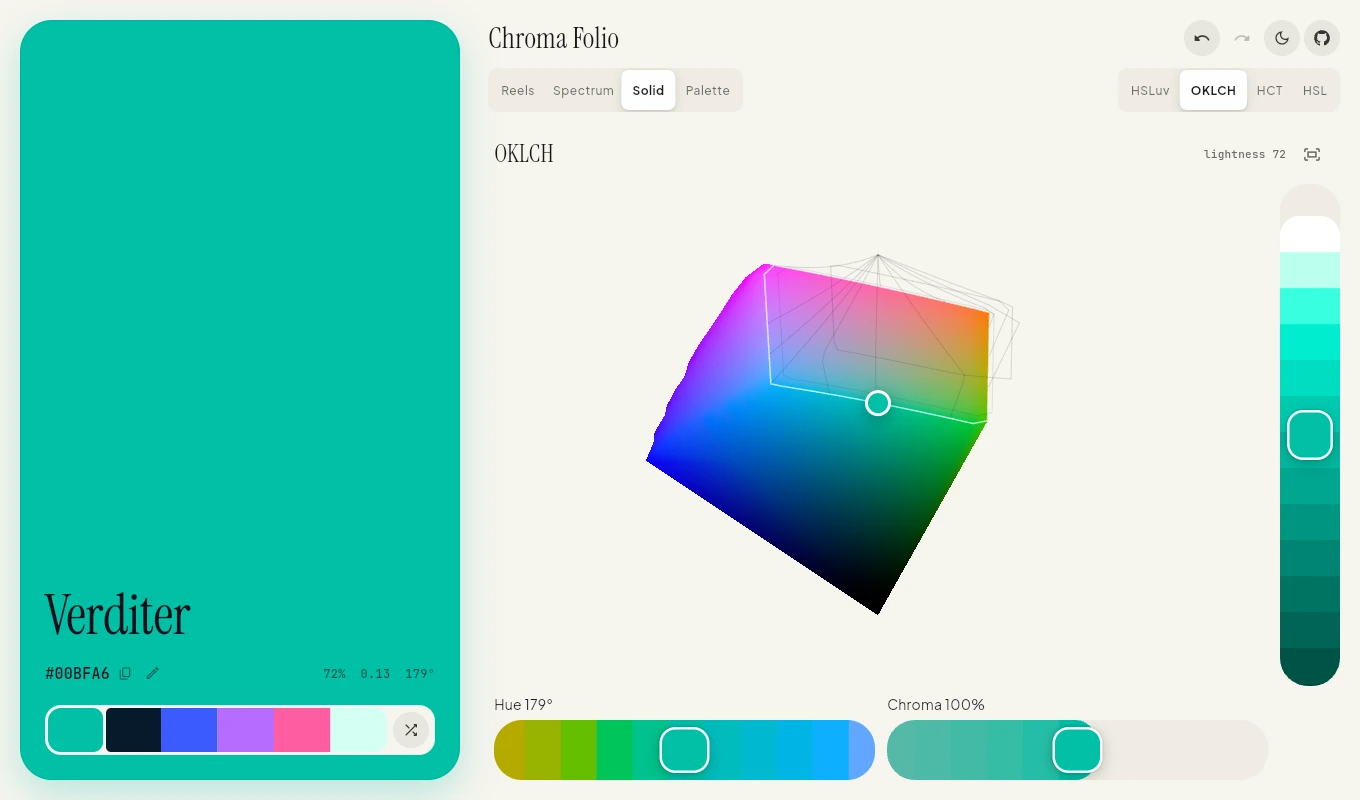
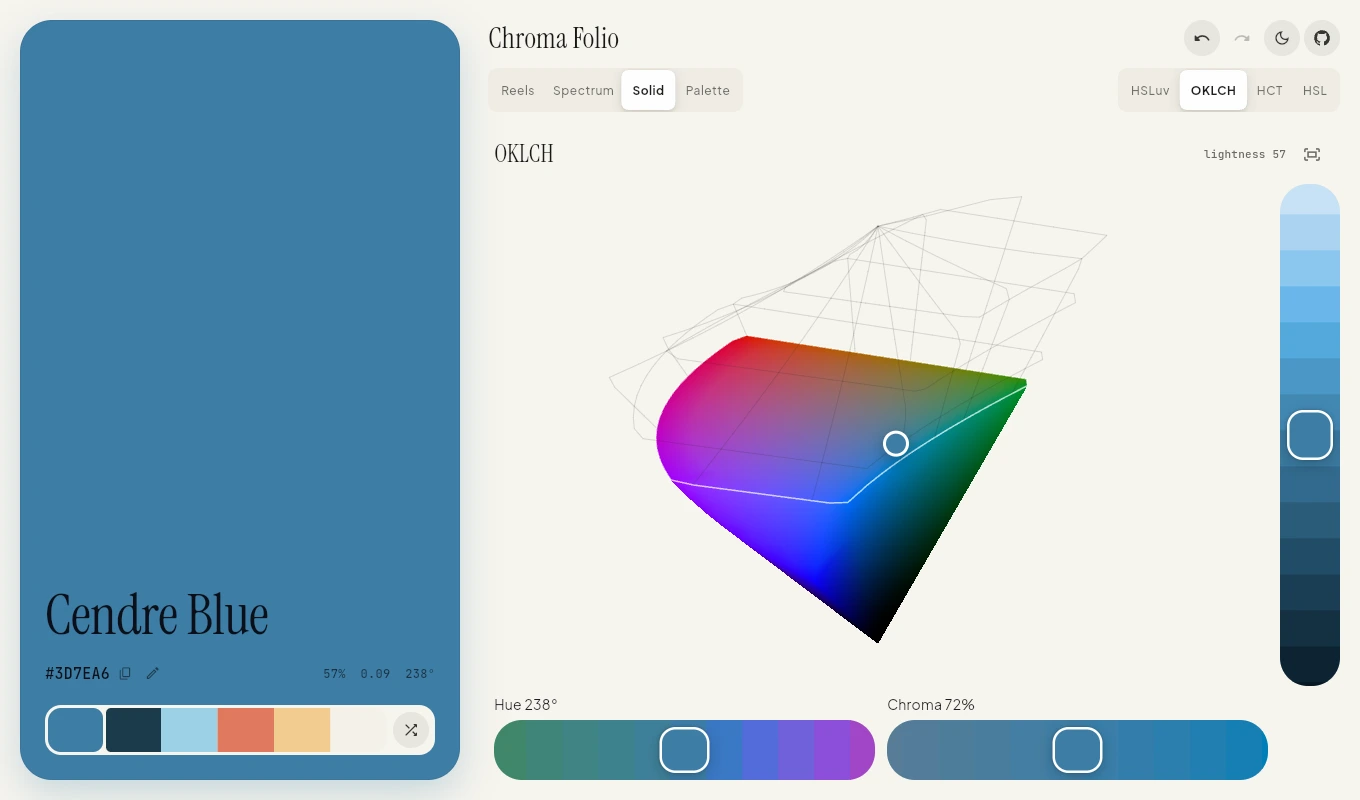
Refresh the Chroma Folio preview and Tone Desk tracking

diff --git a/index.html b/index.html
@@ -96,7 +96,7 @@
           </div>
         </article>
         <article style="--accent:#dce7fb">
-          <a class="preview" href="./chroma-folio/" aria-label="Open Chroma Folio"><img src="./showcase/chroma-folio/preview.webp?v=2" alt="Chroma Folio showing the OKLCH gamut, a teal swatch, and the Deep Sea palette" decoding="async"></a>
+          <a class="preview" href="./chroma-folio/" aria-label="Open Chroma Folio"><img src="./showcase/chroma-folio/preview.webp?v=3" alt="Chroma Folio showing the OKLCH gamut, a blue swatch, and the Fjord palette" decoding="async"></a>
           <div class="content">
             <div class="identity"><img src="./showcase/chroma-folio/icon.png" alt="" width="48" height="48"><div><h3>Chroma Folio</h3><p class="type">Color palette builder</p></div></div>
             <p>Turn a color solid, move the lightness cut, or spin the reels to find a color and build a palette around it.</p>

diff --git a/README.md b/README.md
@@ -75,7 +75,7 @@ These four demos use sample data so you can explore Android tools without device
       <p><a href="https://bernaferrari.github.io/tone-desk/"><strong>Try Tone Desk ↗</strong></a> · <a href="https://github.com/bernaferrari/tone-desk">Source</a> · <a href="https://bernaferrari.github.io/tone-desk/source-commit.txt">Deployed SHA</a></p>
     </td>
     <td width="33%" valign="top">
-      <a href="https://bernaferrari.github.io/chroma-folio/"><img src="showcase/chroma-folio/preview.webp" width="100%" alt="Chroma Folio showing the OKLCH gamut, a teal swatch, and the Deep Sea palette"></a>
+      <a href="https://bernaferrari.github.io/chroma-folio/"><img src="showcase/chroma-folio/preview.webp" width="100%" alt="Chroma Folio showing the OKLCH gamut, a blue swatch, and the Fjord palette"></a>
       <h3>Chroma Folio</h3>
       <p>Turn and slice a 3D color solid, spin color reels, and build a palette you can export.</p>
       <p><a href="https://bernaferrari.github.io/chroma-folio/"><strong>Try Chroma Folio ↗</strong></a> · <a href="https://github.com/bernaferrari/chroma-folio">Source</a> · <a href="chroma-folio/source-commit.txt">Deployed SHA</a></p>
